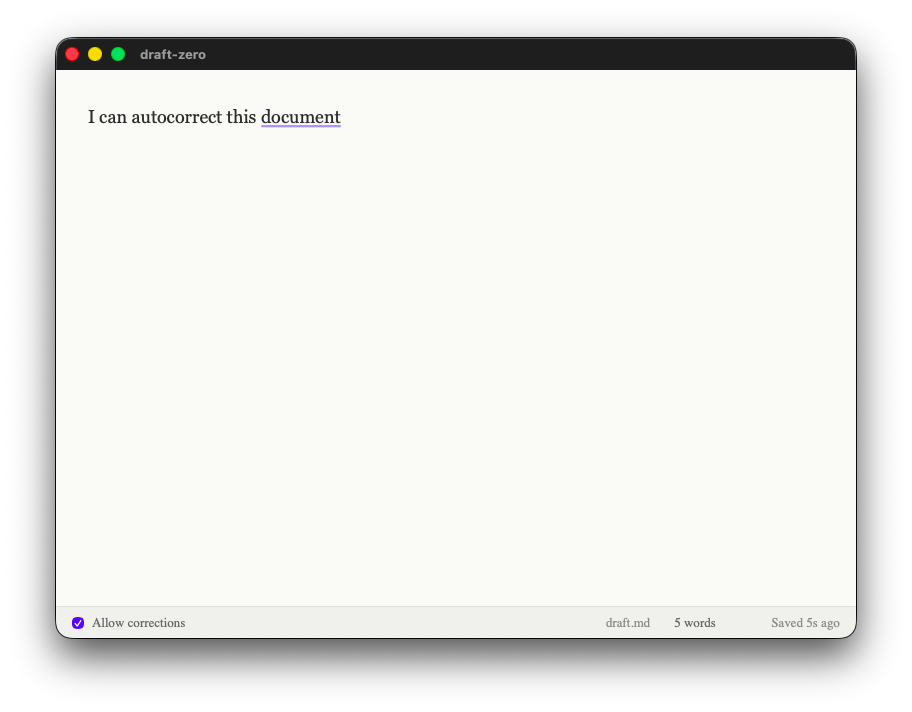
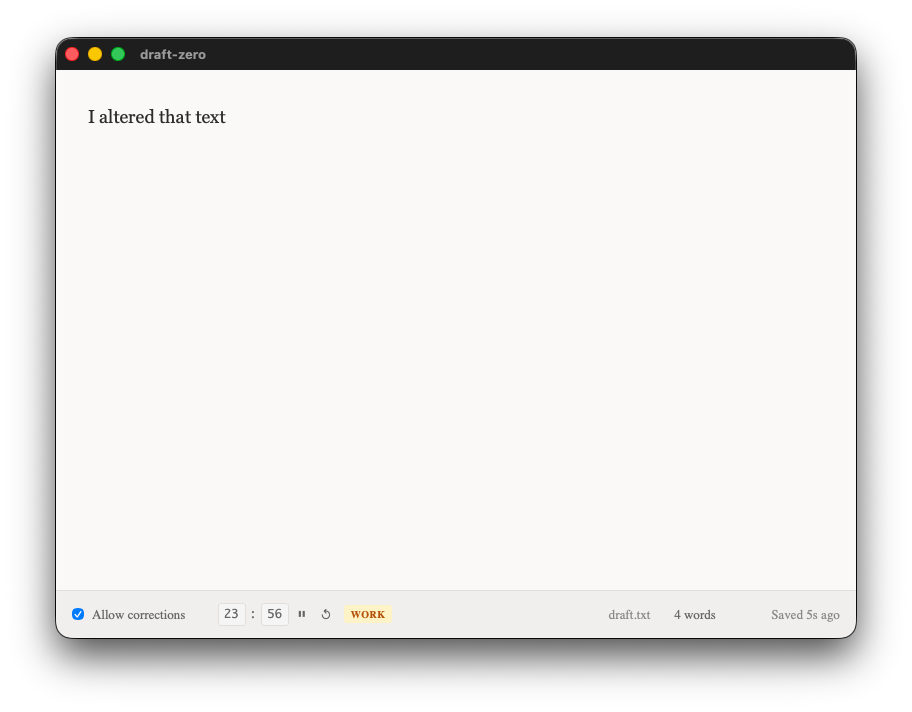
Add a timer

diff --git a/src/Editor.jsx b/src/Editor.jsx
@@ -6,6 +6,10 @@ import "./Editor.css";
 const SAVE_INTERVAL_MS = 10000;
 const SAVE_KEYSTROKE_THRESHOLD = 5;
 const LOCAL_STORAGE_KEY = "draftZeroFilePath";
+const DEFAULT_WORK_MINUTES = 25;
+const DEFAULT_WORK_SECONDS = 0;
+const DEFAULT_BREAK_MINUTES = 5;
+const DEFAULT_BREAK_SECONDS = 0;
 
 function Editor() {
   const [text, setText] = useState("");
@@ -15,10 +19,20 @@ function Editor() {
   const [saveStatus, setSaveStatus] = useState("");
   const [isInitialized, setIsInitialized] = useState(false);
 
+  // Timer state
+  const [timerMinutes, setTimerMinutes] = useState(DEFAULT_WORK_MINUTES);
+  const [timerSeconds, setTimerSeconds] = useState(DEFAULT_WORK_SECONDS);
+  const [timerRunning, setTimerRunning] = useState(false);
+  const [timerPhase, setTimerPhase] = useState("work"); // "work" or "break"
+  const [timerFlash, setTimerFlash] = useState(null); // null, "work", or "break"
+  const [workDuration, setWorkDuration] = useState({ minutes: DEFAULT_WORK_MINUTES, seconds: DEFAULT_WORK_SECONDS });
+
   const textareaRef = useRef(null);
   const keystrokeCountRef = useRef(0);
   const saveTimerRef = useRef(null);
   const textRef = useRef(text);
+  const timerIntervalRef = useRef(null);
+  const audioContextRef = useRef(null);
 
   // Keep textRef in sync with text state
   useEffect(() => {
@@ -201,6 +215,115 @@ function Editor() {
     return parts[parts.length - 1];
   };
 
+  // Play chime sound using Web Audio API
+  const playChime = useCallback((isWorkEnd) => {
+    if (!audioContextRef.current) {
+      audioContextRef.current = new (window.AudioContext || window.webkitAudioContext)();
+    }
+    const ctx = audioContextRef.current;
+    const oscillator = ctx.createOscillator();
+    const gainNode = ctx.createGain();
+
+    oscillator.connect(gainNode);
+    gainNode.connect(ctx.destination);
+
+    // Different frequencies for work vs break end
+    oscillator.frequency.value = isWorkEnd ? 523.25 : 659.25; // C5 for work end, E5 for break end
+    oscillator.type = "sine";
+
+    gainNode.gain.setValueAtTime(0.3, ctx.currentTime);
+    gainNode.gain.exponentialRampToValueAtTime(0.01, ctx.currentTime + 0.5);
+
+    oscillator.start(ctx.currentTime);
+    oscillator.stop(ctx.currentTime + 0.5);
+  }, []);
+
+  // Handle timer reaching zero
+  const handleTimerEnd = useCallback(() => {
+    const isWorkEnd = timerPhase === "work";
+
+    // Play chime
+    playChime(isWorkEnd);
+
+    // Trigger flash animation
+    setTimerFlash(timerPhase);
+    setTimeout(() => setTimerFlash(null), 1000);
+
+    // Switch phase and set new duration
+    if (isWorkEnd) {
+      setTimerPhase("break");
+      setTimerMinutes(DEFAULT_BREAK_MINUTES);
+      setTimerSeconds(DEFAULT_BREAK_SECONDS);
+    } else {
+      setTimerPhase("work");
+      setTimerMinutes(workDuration.minutes);
+      setTimerSeconds(workDuration.seconds);
+    }
+  }, [timerPhase, playChime, workDuration]);
+
+  // Timer tick effect
+  useEffect(() => {
+    if (timerRunning) {
+      timerIntervalRef.current = setInterval(() => {
+        setTimerSeconds(prevSeconds => {
+          if (prevSeconds > 0) {
+            return prevSeconds - 1;
+          } else {
+            setTimerMinutes(prevMinutes => {
+              if (prevMinutes > 0) {
+                return prevMinutes - 1;
+              }
+              return prevMinutes;
+            });
+            return prevSeconds > 0 ? prevSeconds - 1 : 59;
+          }
+        });
+      }, 1000);
+    }
+
+    return () => {
+      if (timerIntervalRef.current) {
+        clearInterval(timerIntervalRef.current);
+      }
+    };
+  }, [timerRunning]);
+
+  // Check for timer reaching zero
+  useEffect(() => {
+    if (timerRunning && timerMinutes === 0 && timerSeconds === 0) {
+      handleTimerEnd();
+    }
+  }, [timerRunning, timerMinutes, timerSeconds, handleTimerEnd]);
+
+  // Timer controls
+  const toggleTimer = () => {
+    if (!timerRunning && timerPhase === "work") {
+      // Save work duration when starting
+      setWorkDuration({ minutes: timerMinutes, seconds: timerSeconds });
+    }
+    setTimerRunning(!timerRunning);
+  };
+
+  const resetTimer = () => {
+    setTimerRunning(false);
+    setTimerPhase("work");
+    setTimerMinutes(workDuration.minutes);
+    setTimerSeconds(workDuration.seconds);
+  };
+
+  // Handle timer input changes
+  const handleMinutesChange = (e) => {
+    const val = e.target.value.replace(/\D/g, "").slice(0, 2);
+    const num = Math.min(99, parseInt(val) || 0);
+    setTimerMinutes(num);
+  };
+
+  const handleSecondsChange = (e) => {
+    const val = e.target.value.replace(/\D/g, "").slice(0, 2);
+    const num = Math.min(59, parseInt(val) || 0);
+    setTimerSeconds(num);
+  };
+
   if (!isInitialized) {
     return <div className="loading">Setting up...</div>;
   }
@@ -227,14 +350,54 @@ function Editor() {
         autoFocus
       />
       <div className="status-bar">
-        <label className="corrections-toggle">
-          <input
-            type="checkbox"
-            checked={allowCorrections}
-            onChange={(e) => setAllowCorrections(e.target.checked)}
-          />
-          Allow corrections
-        </label>
+        <div className="status-left">
+          <label className="corrections-toggle">
+            <input
+              type="checkbox"
+              checked={allowCorrections}
+              onChange={(e) => setAllowCorrections(e.target.checked)}
+            />
+            Allow corrections
+          </label>
+          <div className={`timer-container ${timerFlash ? `flash-${timerFlash}` : ""}`}>
+            <input
+              type="text"
+              className="timer-input"
+              value={String(timerMinutes).padStart(2, "0")}
+              onChange={handleMinutesChange}
+              disabled={timerRunning}
+              placeholder="MM"
+              maxLength={2}
+            />
+            <span className="timer-colon">:</span>
+            <input
+              type="text"
+              className="timer-input"
+              value={String(timerSeconds).padStart(2, "0")}
+              onChange={handleSecondsChange}
+              disabled={timerRunning}
+              placeholder="SS"
+              maxLength={2}
+            />
+            <button
+              className="timer-btn"
+              onClick={toggleTimer}
+              title={timerRunning ? "Pause" : "Start"}
+            >
+              {timerRunning ? "⏸" : "▶"}
+            </button>
+            <button
+              className="timer-btn"
+              onClick={resetTimer}
+              title="Reset"
+            >
+              ↺
+            </button>
+            <span className={`timer-phase ${timerPhase}`}>
+              {timerPhase.toUpperCase()}
+            </span>
+          </div>
+        </div>
         <div className="status-right">
           <span className="filename">{getFilename()}</span>
           <span className="word-count">{wordCount} words</span>

diff --git a/src/Editor.css b/src/Editor.css
@@ -35,6 +35,12 @@
   color: #666;
 }
 
+.status-left {
+  display: flex;
+  align-items: center;
+  gap: 1.5rem;
+}
+
 .corrections-toggle {
   display: flex;
   align-items: center;
@@ -45,6 +51,106 @@
 
 .corrections-toggle input {
   cursor: pointer;
+}
+
+.timer-container {
+  display: flex;
+  align-items: center;
+  gap: 0.25rem;
+  padding: 0.25rem 0.5rem;
+  border-radius: 4px;
+  transition: background-color 0.15s ease;
+}
+
+.timer-input {
+  width: 28px;
+  padding: 0.15rem 0.25rem;
+  border: 1px solid #d0cfcd;
+  border-radius: 3px;
+  background: #fff;
+  font-family: "SF Mono", Monaco, "Consolas", monospace;
+  font-size: 12px;
+  text-align: center;
+  color: #444;
+}
+
+.timer-input:disabled {
+  background: #f5f5f5;
+  color: #666;
+  border-color: #e0dfdd;
+}
+
+.timer-input:focus {
+  outline: none;
+  border-color: #4a90d9;
+}
+
+.timer-colon {
+  font-family: "SF Mono", Monaco, "Consolas", monospace;
+  font-size: 12px;
+  color: #666;
+  font-weight: 500;
+}
+
+.timer-btn {
+  background: none;
+  border: none;
+  padding: 0.2rem 0.35rem;
+  cursor: pointer;
+  font-size: 12px;
+  color: #666;
+  border-radius: 3px;
+  transition: background-color 0.15s ease, color 0.15s ease;
+}
+
+.timer-btn:hover {
+  background: #e0dfdd;
+  color: #333;
+}
+
+.timer-btn:active {
+  background: #d0cfcd;
+}
+
+.timer-phase {
+  font-size: 10px;
+  font-weight: 600;
+  text-transform: uppercase;
+  letter-spacing: 0.5px;
+  padding: 0.15rem 0.4rem;
+  border-radius: 3px;
+  margin-left: 0.25rem;
+}
+
+.timer-phase.work {
+  color: #b45309;
+  background: #fef3c7;
+}
+
+.timer-phase.break {
+  color: #047857;
+  background: #d1fae5;
+}
+
+/* Flash animations */
+.timer-container.flash-work {
+  animation: flash-orange 1s ease-out;
+}
+
+.timer-container.flash-break {
+  animation: flash-green 1s ease-out;
+}
+
+@keyframes flash-orange {
+  0%, 100% { background-color: transparent; }
+  15%, 45%, 75% { background-color: #fed7aa; }
+  30%, 60% { background-color: transparent; }
+}
+
+@keyframes flash-green {
+  0%, 100% { background-color: transparent; }
+  15%, 45%, 75% { background-color: #a7f3d0; }
+  30%, 60% { background-color: transparent; }
 }
 
 .status-right {
